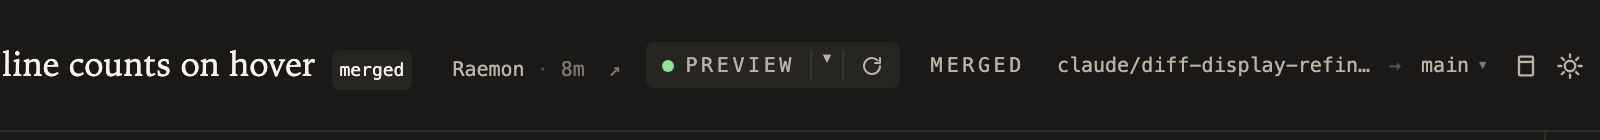
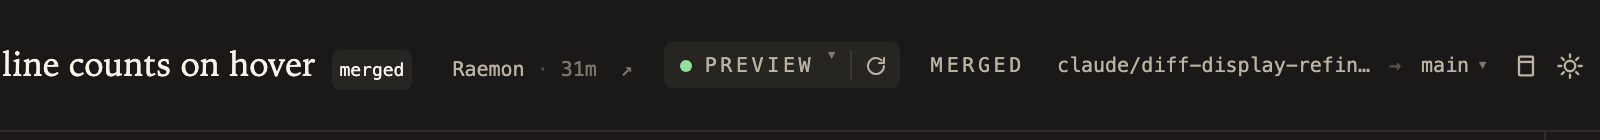
Redesign the preview control: chevron in the link segment, behind count, grouped menu with a build action

Changed region(s): [[0.3438, 0.3714, 0.5625, 0.5429]]

diff --git a/src/features/pull-requests/PreviewMenu.tsx b/src/features/pull-requests/PreviewMenu.tsx
@@ -1,13 +1,18 @@
 'use client';
 
+import type { ReactNode } from 'react';
 import type { PreviewEntry } from './pullPreviews';
-import type { PreviewControls } from './usePullPreviews';
+import { buildProgress, isCommitEntry, previewNeedsRebuild, type PreviewControls } from './usePullPreviews';
 import { PopoverMenu, type PopoverTrigger } from '@/features/surface-ui/PopoverMenu';
 import { RelativeTime } from '@/features/surface-ui/RelativeTime';
+import { StrokeIcon } from '@/features/surface-ui/StrokeIcon';
 
-const ROW = 'flex w-full items-baseline gap-2 border-b border-panel-edge px-2 py-1 text-left text-[11px] leading-4 last:border-b-0';
-const NOTE = 'px-2 py-1 text-[11px] text-ink-dim';
-const STATE_WORD = { ready: '', building: 'building…', failed: 'failed', none: 'no deployment' };
+const ROW = 'flex w-full items-center gap-2 px-2 py-1 text-left text-[11px] leading-4';
+const HEADING_TEXT = 'text-[9px] uppercase tracking-[0.18em] text-ink-dim';
+const HEADING = `px-2 pb-0.5 pt-1.5 ${HEADING_TEXT}`;
+const NOTE = 'px-2 py-2 text-[11px] text-ink-dim';
+const MONO = 'shrink-0 font-mono text-[10px] text-ink-dim';
+const STATE_WORD: Record<PreviewEntry['state'], string | null> = { ready: null, building: 'building', failed: 'failed', none: 'no deploy' };
 const DOT_TONE = {
   ready: 'bg-add-ink',
   building: 'bg-ink-dim animate-pulse',
@@ -16,10 +21,22 @@ const DOT_TONE = {
   behind: 'bg-warn-edge',
 };
 
-export function PreviewMenu({ previews, number }: { previews: PreviewControls; number: number }) {
+export function PreviewMenu({ previews, number, baseRef }: { previews: PreviewControls; number: number; baseRef: string }) {
   return (
-    <PopoverMenu align="right-0" panelClass="w-[26rem] max-h-[60vh] overflow-y-auto" trigger={(state) => <ChevronButton {...state} number={number} />}>
-      {(close) => <PreviewRows previews={previews} close={close} />}
+    <PopoverMenu
+      align="right-0"
+      panelClass="flex max-h-[70vh] w-[28rem] flex-col overflow-hidden"
+      trigger={(state) => <ChevronButton {...state} number={number} />}
+    >
+      {(close) => (
+        <>
+          <MenuHeader previews={previews} number={number} />
+          <div className="min-h-0 flex-1 overflow-y-auto pb-0.5">
+            <PreviewRows previews={previews} close={close} />
+          </div>
+          <BuildRow previews={previews} baseRef={baseRef} close={close} />
+        </>
+      )}
     </PopoverMenu>
   );
 }
@@ -36,24 +53,51 @@ function ChevronButton({ open, toggle, number }: PopoverTrigger & { number: numb
       aria-expanded={open}
       aria-label={`Show every preview deployment for #${number}`}
       onClick={toggle}
-      className={`flex items-center px-1 text-[10px] hover:bg-btn-hover hover:text-ink ${open ? 'bg-btn-active text-accent' : ''}`}
+      className={`flex h-full items-center pl-0.5 pr-1.5 text-[9px] ${open ? 'bg-btn-active text-accent' : 'text-ink-dim/60 hover:text-ink'}`}
     >
       ▾
     </button>
   );
 }
 
+function MenuHeader({ previews, number }: { previews: PreviewControls; number: number }) {
+  return (
+    <div className={`flex items-baseline justify-between border-b border-panel-edge px-2 py-1.5 ${HEADING_TEXT}`}>
+      <span>Preview deployments · #{number}</span>
+      {previews.headSha !== null && <span className="font-mono normal-case tracking-normal">head {previews.headSha.slice(0, 7)}</span>}
+    </div>
+  );
+}
+
 function PreviewRows({ previews, close }: { previews: PreviewControls; close: () => void }) {
   if (!previews.loaded) return <p className={NOTE}>Loading previews…</p>;
   if (previews.entries.length === 0) return <p className={NOTE}>No commits yet.</p>;
-  return previews.entries.map((entry) => <PreviewRow key={entry.sha} entry={entry} headSha={previews.headSha} close={close} />);
+  const branches = previews.entries.filter((entry) => !isCommitEntry(entry));
+  const commits = previews.entries.filter(isCommitEntry);
+  const grouped = branches.length > 0;
+  return (
+    <>
+      <Section title={grouped ? 'Fresh preview branches' : null} entries={branches} previews={previews} close={close} />
+      <Section title={grouped ? 'Commits' : null} entries={commits} previews={previews} close={close} />
+    </>
+  );
+}
+
+function Section({ title, entries, previews, close }: { title: string | null; entries: PreviewEntry[]; previews: PreviewControls; close: () => void }) {
+  if (entries.length === 0) return null;
+  return (
+    <>
+      {title !== null && <h3 className={HEADING}>{title}</h3>}
+      {entries.map((entry) => <PreviewRow key={entry.branch ?? entry.sha} entry={entry} headSha={previews.headSha} close={close} />)}
+    </>
+  );
 }
 
 function PreviewRow({ entry, headSha, close }: { entry: PreviewEntry; headSha: string | null; close: () => void }) {
   const body = <RowBody entry={entry} latest={entry.forSha === headSha} />;
   if (entry.url === null) return <div className={`${ROW} text-ink-dim`}>{body}</div>;
   return (
-    <a href={entry.url} target="_blank" rel="noreferrer" onClick={close} className={`${ROW} text-ink hover:bg-btn-hover`}>
+    <a href={entry.url} target="_blank" rel="noreferrer" onClick={close} className={`${ROW} group text-ink hover:bg-btn-hover`}>
       {body}
     </a>
   );
@@ -63,15 +107,61 @@ function RowBody({ entry, latest }: { entry: PreviewEntry; latest: boolean }) {
   return (
     <>
       <StateDot state={entry.state} />
-      <span className="shrink-0 font-mono text-[10px] text-ink-dim">{previewName(entry)}</span>
+      <span className={`${MONO} ${isCommitEntry(entry) ? 'w-14' : 'max-w-52 truncate'}`}>{previewName(entry)}</span>
       <span className="min-w-0 flex-1 truncate">{entry.message}</span>
-      {latest && <span className="shrink-0 text-[9px] uppercase tracking-[0.18em] text-accent">latest</span>}
-      <span className="shrink-0 text-[9px] text-ink-dim">{STATE_WORD[entry.state]}</span>
-      {entry.date !== '' && <RelativeTime iso={entry.date} className="shrink-0 text-[9px] text-ink-dim" />}
+      {latest && <Tag tone="text-accent">latest</Tag>}
+      <RowTrail entry={entry} />
+      {entry.date !== '' && <RelativeTime iso={entry.date} className="w-7 shrink-0 justify-end text-[9px] text-ink-dim" />}
     </>
   );
 }
 
+function RowTrail({ entry }: { entry: PreviewEntry }) {
+  const word = STATE_WORD[entry.state];
+  if (word !== null) return <Tag tone="bg-btn text-ink-dim">{word}</Tag>;
+  return (
+    <span aria-hidden className="w-2 shrink-0 text-[10px] text-ink-dim/40 group-hover:text-ink">
+      ↗
+    </span>
+  );
+}
+
+function Tag({ tone, children }: { tone: string; children: ReactNode }) {
+  return <span className={`shrink-0 rounded px-1 text-[9px] uppercase tracking-[0.14em] ${tone}`}>{children}</span>;
+}
+
+function BuildRow({ previews, baseRef, close }: { previews: PreviewControls; baseRef: string; close: () => void }) {
+  const urging = previewNeedsRebuild(previews);
+  return (
+    <button
+      type="button"
+      disabled={previews.working}
+      onClick={() => {
+        close();
+        previews.refresh();
+      }}
+      className={`${ROW} border-t border-panel-edge hover:bg-btn-hover disabled:opacity-40 disabled:hover:bg-transparent`}
+    >
+      <RefreshIcon spinning={previews.working} className={urging ? 'text-accent' : 'text-ink-dim'} />
+      <span className={`shrink-0 ${urging ? 'text-accent' : 'text-ink'}`}>{buildTitle(previews)}</span>
+      <span className="min-w-0 flex-1 truncate text-[10px] text-ink-dim">head with the latest {baseRef} merged in</span>
+    </button>
+  );
+}
+
+function buildTitle(previews: PreviewControls): string {
+  return buildProgress(previews) ?? 'Build a fresh preview branch';
+}
+
 export function StateDot({ state }: { state: keyof typeof DOT_TONE }) {
-  return <span aria-hidden className={`inline-block h-1.5 w-1.5 shrink-0 self-center rounded-full ${DOT_TONE[state]}`} />;
+  return <span aria-hidden className={`inline-block h-1.5 w-1.5 shrink-0 rounded-full ${DOT_TONE[state]}`} />;
+}
+
+export function RefreshIcon({ spinning, className = '' }: { spinning: boolean; className?: string }) {
+  return (
+    <StrokeIcon size={12} className={`shrink-0 ${spinning ? 'animate-spin' : ''} ${className}`}>
+      <path d="M20 12a8 8 0 1 1-2.34-5.66" />
+      <path d="M20 4v5h-5" />
+    </StrokeIcon>
+  );
 }

diff --git a/src/features/pull-requests/PreviewLink.tsx b/src/features/pull-requests/PreviewLink.tsx
@@ -1,17 +1,15 @@
 'use client';
 
 import { useCurrentPull } from './currentPullStore';
-import { PreviewMenu, StateDot, previewName } from './PreviewMenu';
+import { PreviewMenu, RefreshIcon, StateDot, previewName } from './PreviewMenu';
 import type { PreviewEntry } from './pullPreviews';
-import { usePullPreviews, type PreviewControls } from './usePullPreviews';
+import { buildProgress, commitsBehind, previewNeedsRebuild, usePullPreviews, type PreviewControls } from './usePullPreviews';
 import type { RepoRef } from '@/features/sources/parseRepoLink';
-import { CHOICE_METRICS } from '@/features/surface-ui/buttonStyles';
 import { FailureNote } from '@/features/surface-ui/FailureNote';
 import { HoverCardTrigger } from '@/features/surface-ui/HoverCard';
-import { StrokeIcon } from '@/features/surface-ui/StrokeIcon';
 
-const HALF = `flex items-center gap-1.5 uppercase tracking-[0.18em] ${CHOICE_METRICS}`;
-const DIVIDER = <span aria-hidden className="my-1 w-px shrink-0 bg-panel-edge" />;
+const SEGMENT = 'flex items-center py-1 text-[10px] uppercase tracking-[0.18em]';
+const LEFT_SEGMENT = `${SEGMENT} gap-1.5 rounded-l pl-2 pr-1`;
 
 export function PreviewLink({ repo, number }: { repo: RepoRef; number: number }) {
   const pull = useCurrentPull(repo.owner, repo.name, number);
@@ -21,22 +19,21 @@ export function PreviewLink({ repo, number }: { repo: RepoRef; number: number })
     <div className="flex shrink-0 items-center gap-2">
       {previews.failure !== null && <FailureNote label={previews.failure} />}
       <div className="flex shrink-0 items-stretch rounded bg-btn text-ink-dim">
-        <PreviewHalf previews={previews} number={number} />
-        {DIVIDER}
-        <PreviewMenu previews={previews} number={number} />
-        {DIVIDER}
-        <RefreshHalf previews={previews} number={number} />
+        <PreviewSegment previews={previews} number={number} />
+        <PreviewMenu previews={previews} number={number} baseRef={pull.baseRef} />
+        <span aria-hidden className="my-1 w-px shrink-0 bg-panel-edge" />
+        <RefreshSegment previews={previews} number={number} />
       </div>
     </div>
   );
 }
 
-function PreviewHalf({ previews, number }: { previews: PreviewControls; number: number }) {
+function PreviewSegment({ previews, number }: { previews: PreviewControls; number: number }) {
   const { best } = previews;
   if (best === null || best.url === null) {
     return (
       <HoverCardTrigger label={missingLabel(previews, number)} focusable={false} tooltipStyle>
-        <span className={`${HALF} rounded-l opacity-40`}>
+        <span className={`${LEFT_SEGMENT} opacity-40`}>
           <StateDot state={previews.headState} />
           Preview
         </span>
@@ -45,12 +42,23 @@ function PreviewHalf({ previews, number }: { previews: PreviewControls; number: 
   }
   return (
     <HoverCardTrigger label={openLabel(previews, best, number)} focusable={false} tooltipStyle>
-      <a href={best.url} target="_blank" rel="noreferrer" className={`${HALF} rounded-l hover:bg-btn-hover hover:text-ink ${previews.upToDate ? '' : 'text-warn-edge'}`}>
+      <a
+        href={best.url}
+        target="_blank"
+        rel="noreferrer"
+        className={`${LEFT_SEGMENT} hover:bg-btn-hover hover:text-ink ${previews.upToDate ? '' : 'text-warn-edge'}`}
+      >
         <StateDot state={previews.upToDate ? 'ready' : 'behind'} />
         Preview
+        {!previews.upToDate && <BehindNote previews={previews} />}
       </a>
     </HoverCardTrigger>
   );
+}
+
+function BehindNote({ previews }: { previews: PreviewControls }) {
+  const behind = commitsBehind(previews);
+  return <span className="text-[9px] normal-case tracking-normal">{behind === null ? 'behind' : `${behind} behind`}</span>;
 }
 
 function missingLabel(previews: PreviewControls, number: number): string {
@@ -72,40 +80,27 @@ function headWording(previews: PreviewControls): string {
   return 'does not exist';
 }
 
-function RefreshHalf({ previews, number }: { previews: PreviewControls; number: number }) {
-  const working = previews.creating || previews.awaiting !== null;
-  const urging = !working && headLacksPreview(previews);
+function RefreshSegment({ previews, number }: { previews: PreviewControls; number: number }) {
   return (
     <HoverCardTrigger label={refreshLabel(previews, number)} focusable={false} tooltipStyle>
       <button
         type="button"
         onClick={previews.refresh}
-        disabled={working}
+        disabled={previews.working}
         aria-label={`Build a fresh preview branch for #${number}`}
-        className={`${HALF} rounded-r hover:bg-accent/20 hover:text-accent disabled:opacity-40 disabled:hover:bg-transparent ${urging ? 'text-accent' : ''}`}
+        className={`${SEGMENT} rounded-r px-1.5 hover:bg-accent/20 hover:text-accent disabled:opacity-40 disabled:hover:bg-transparent ${
+          previewNeedsRebuild(previews) ? 'text-accent' : ''
+        }`}
       >
-        <RefreshIcon spinning={working} />
+        <RefreshIcon spinning={previews.working} />
       </button>
     </HoverCardTrigger>
   );
 }
 
-function headLacksPreview(previews: PreviewControls): boolean {
-  return previews.loaded && !previews.upToDate && previews.headState !== 'building';
-}
-
 function refreshLabel(previews: PreviewControls, number: number): string {
-  if (previews.creating) return 'Creating a fresh preview branch…';
-  if (previews.awaiting !== null) return 'Waiting for the fresh preview branch to deploy…';
+  const progress = buildProgress(previews);
+  if (progress !== null) return progress;
   const why = previews.upToDate ? 'for a preview that is up to date' : 'so the latest commit gets a preview';
   return `Branch #${number} afresh with the latest base branch merged in, ${why}`;
-}
-
-function RefreshIcon({ spinning }: { spinning: boolean }) {
-  return (
-    <StrokeIcon size={12} className={spinning ? 'animate-spin' : undefined}>
-      <path d="M20 12a8 8 0 1 1-2.34-5.66" />
-      <path d="M20 4v5h-5" />
-    </StrokeIcon>
-  );
 }

diff --git a/src/features/pull-requests/usePullPreviews.ts b/src/features/pull-requests/usePullPreviews.ts
@@ -23,6 +23,7 @@ export interface PreviewControls {
   headState: PreviewState;
   awaiting: string | null;
   creating: boolean;
+  working: boolean;
   failure: string | null;
   refresh: () => void;
 }
@@ -50,15 +51,38 @@ export function usePullPreviews(repo: RepoRef, number: number): PreviewControls 
       .finally(() => setCreating(false));
   };
 
+  const awaitingSha = view.awaitingBuild ? awaiting : null;
   return {
     ...view,
     loaded: held.data !== null,
     entries: held.data?.entries ?? [],
-    awaiting: view.awaitingBuild ? awaiting : null,
+    awaiting: awaitingSha,
     creating,
+    working: creating || awaitingSha !== null,
     failure: notice ?? deployFailure(view.awaited) ?? held.error,
     refresh,
   };
+}
+
+export function previewNeedsRebuild(previews: PreviewControls): boolean {
+  return previews.loaded && !previews.working && !previews.upToDate && previews.headState !== 'building';
+}
+
+export function buildProgress(previews: PreviewControls): string | null {
+  if (previews.creating) return 'Creating a fresh preview branch…';
+  if (previews.awaiting !== null) return 'Waiting for the fresh preview branch to deploy…';
+  return null;
+}
+
+export function isCommitEntry(entry: PreviewEntry): boolean {
+  return entry.branch === null;
+}
+
+export function commitsBehind(previews: PreviewControls): number | null {
+  if (previews.best === null) return null;
+  const shown = previews.best.forSha;
+  const behind = previews.entries.filter(isCommitEntry).findIndex((entry) => entry.sha === shown);
+  return behind > 0 ? behind : null;
 }
 
 function createFreshPreview(
@@ -127,7 +151,7 @@ function stateAmong(entries: PreviewEntry[]): PreviewState {
   return 'none';
 }
 
-// Repos without Vercel stay 'none' forever; wait only once an entry shows Vercel is here.
+// Repos without Vercel stay 'none' forever; only poll once some entry proves Vercel exists.
 function headPending(state: PreviewState, entries: PreviewEntry[]): boolean {
   if (state === 'building') return true;
   return state === 'none' && entries.some((entry) => entry.state !== 'none');
